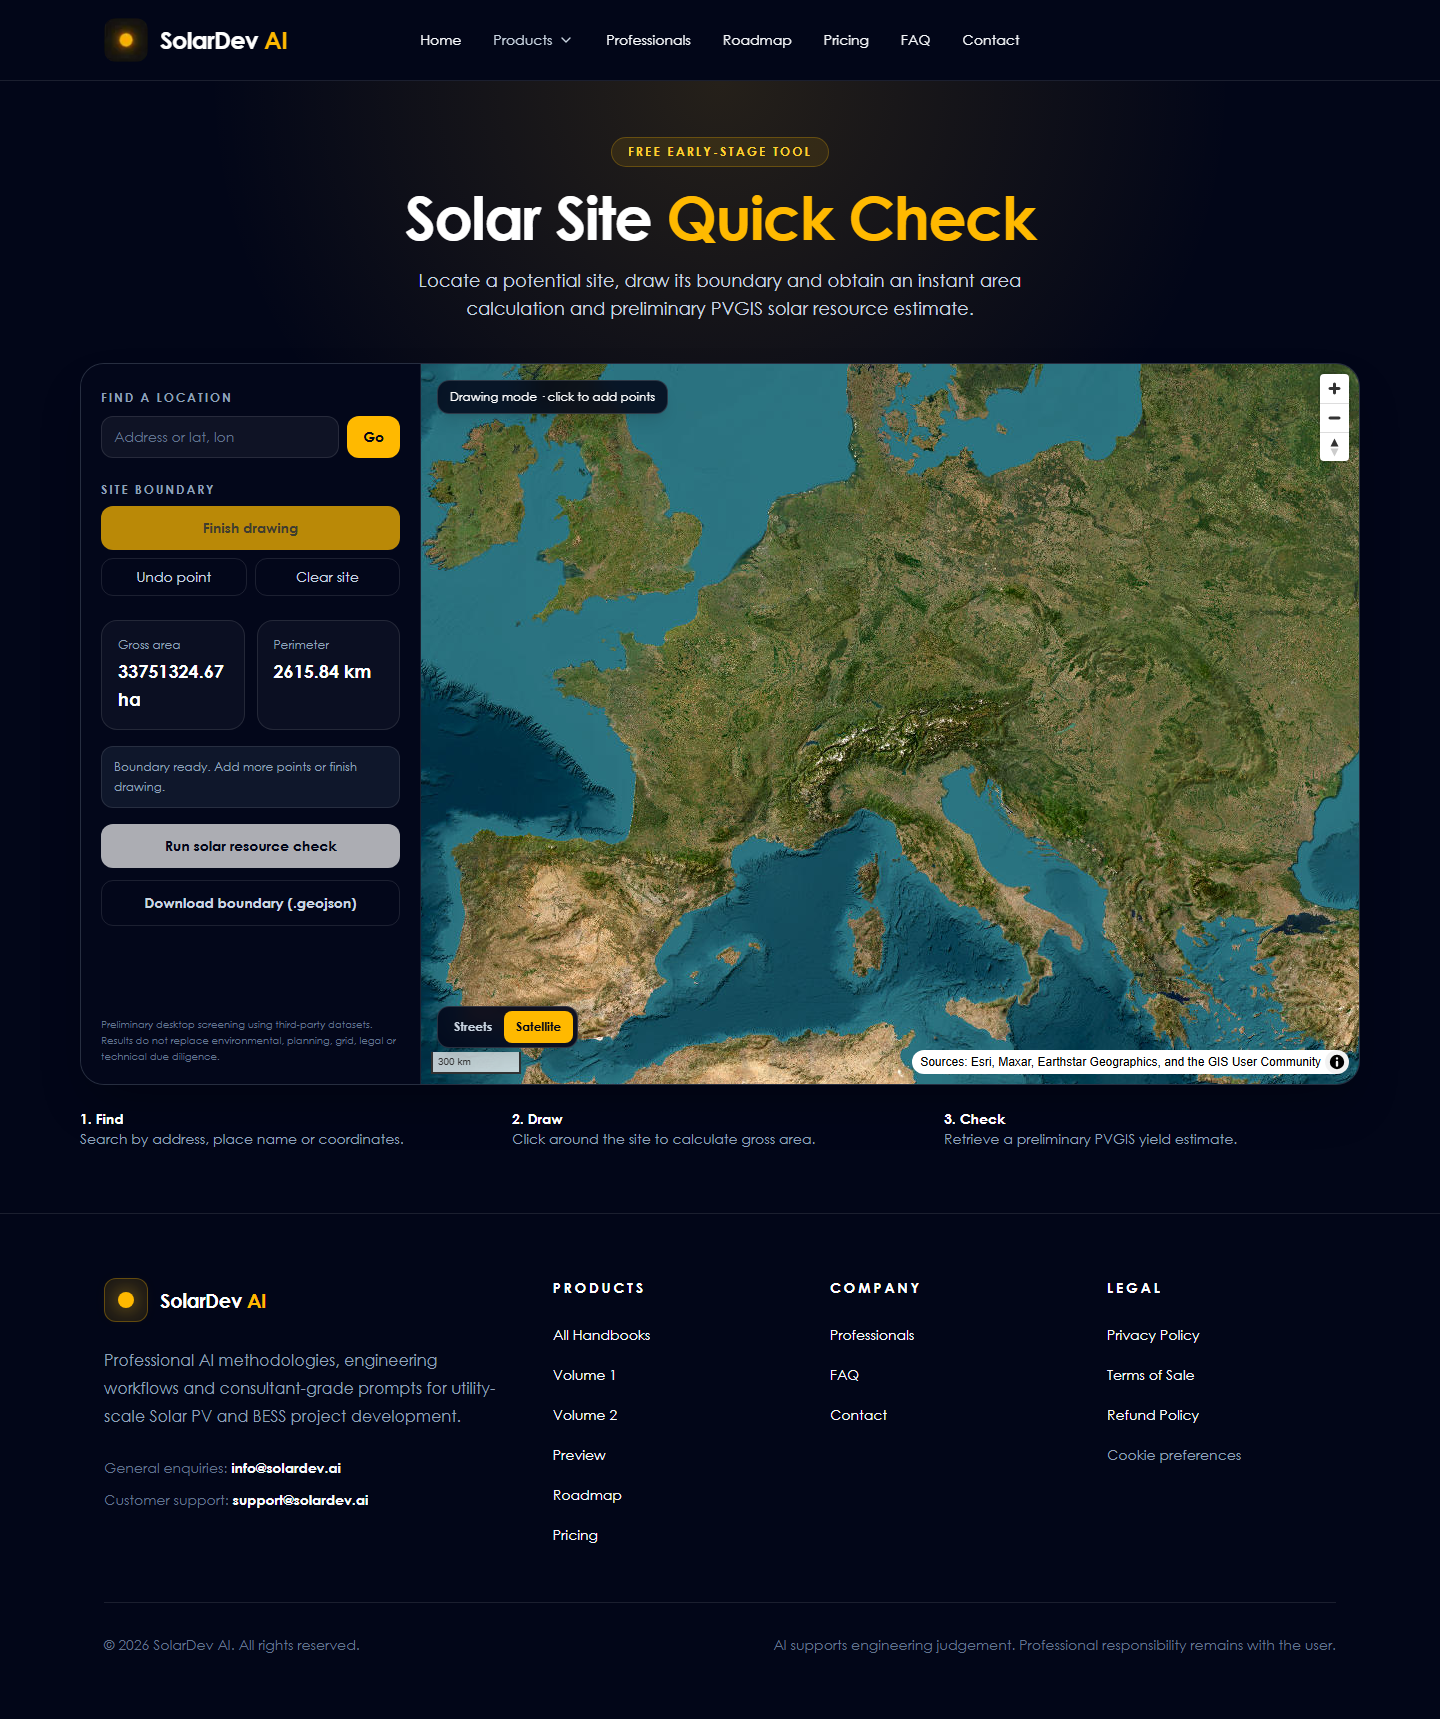
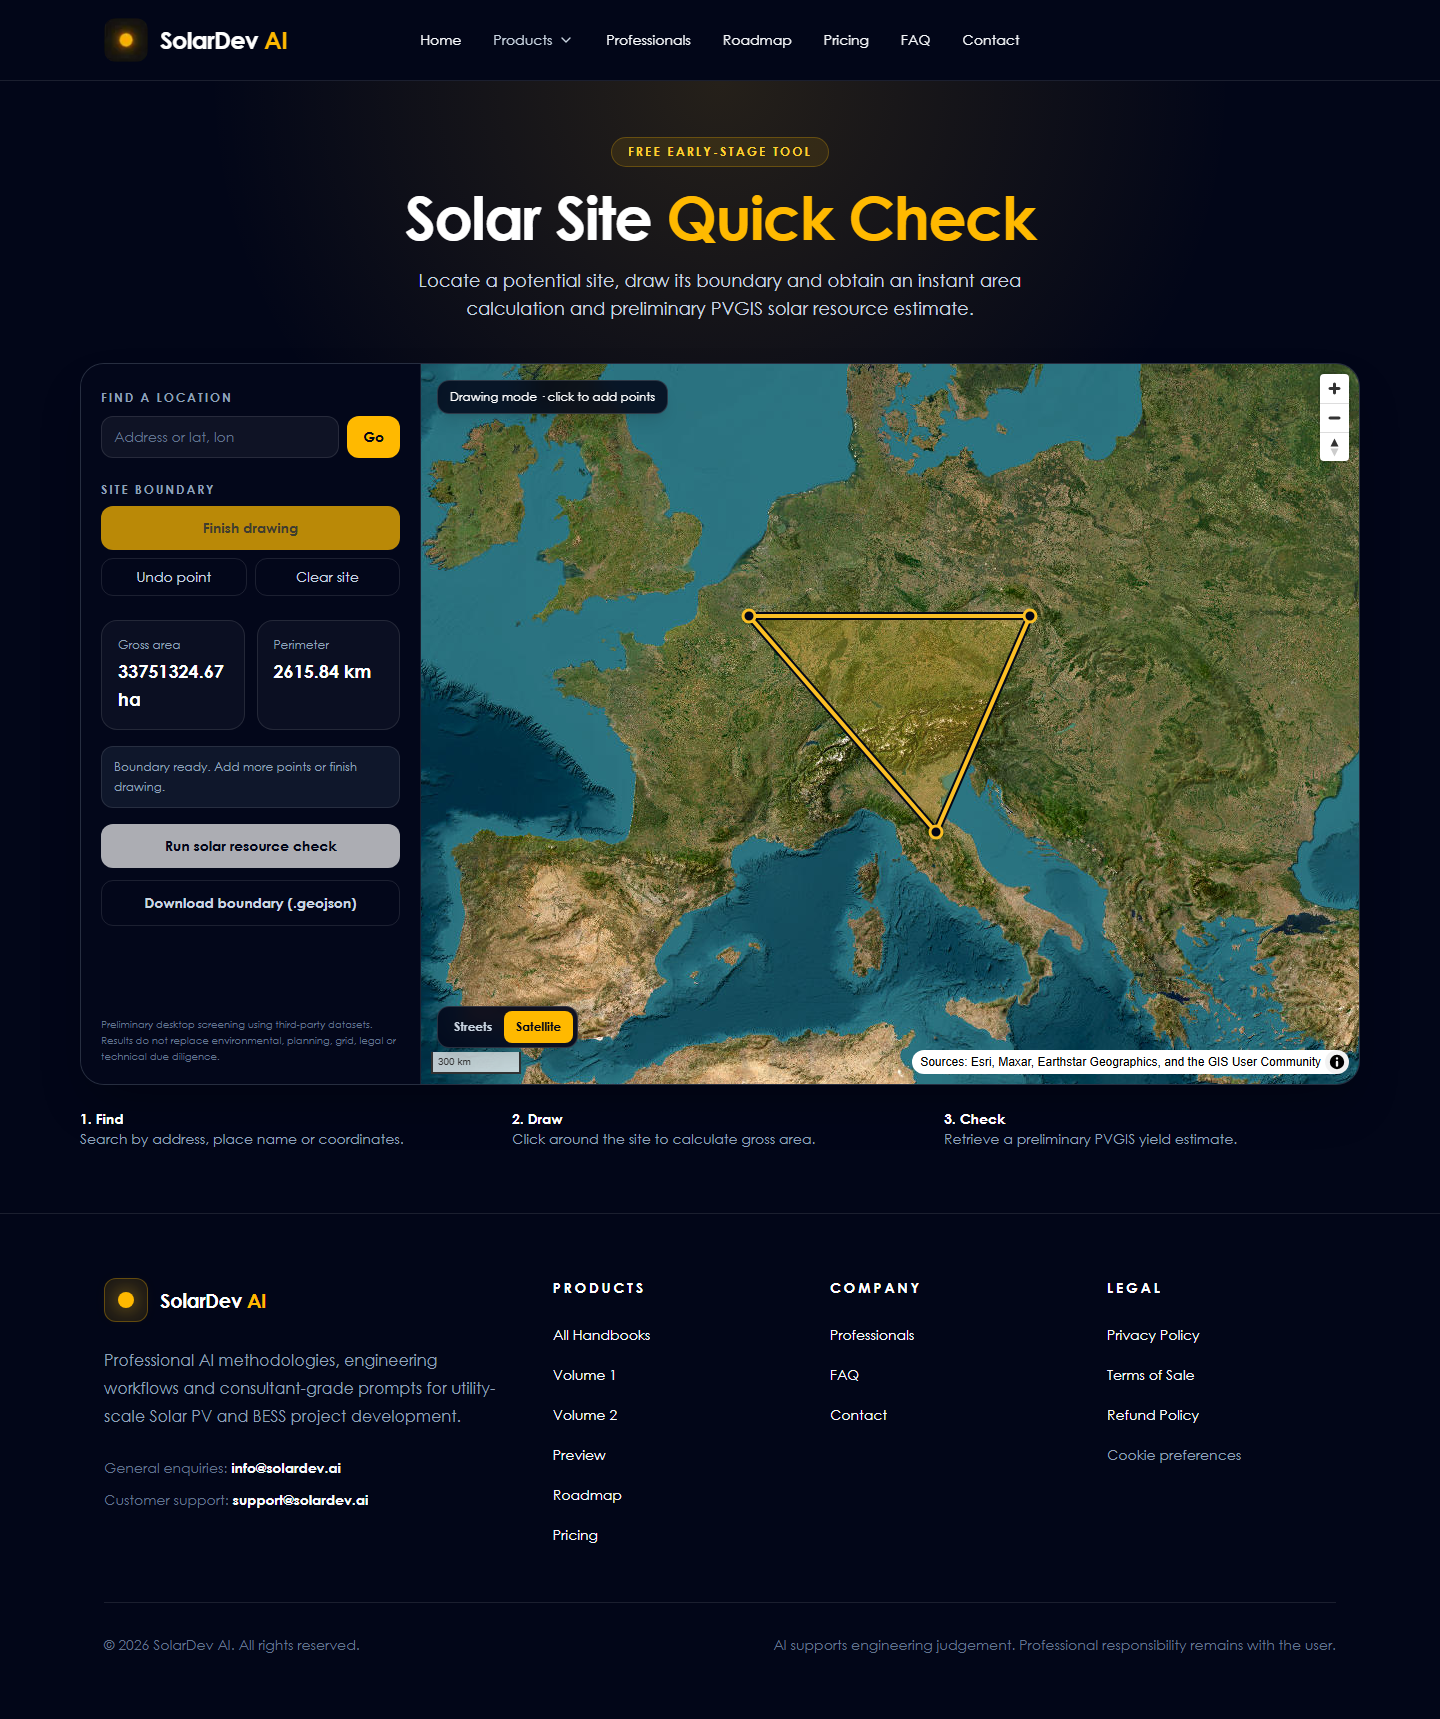
maps edits

Changed region(s): [[0.5, 0.3392, 0.7188, 0.4933]]

diff --git a/components/SolarSiteScreeningMap.tsx b/components/SolarSiteScreeningMap.tsx
@@ -39,6 +39,7 @@ function formatDistance(kilometres: number) {
 
 export default function SolarSiteScreeningMap() {
   const containerRef = useRef<HTMLDivElement>(null);
+  const drawingOverlayRef = useRef<SVGSVGElement>(null);
   const mapRef = useRef<MapLibreMap | null>(null);
   const pointsRef = useRef<Coordinate[]>([]);
   const [points, setPoints] = useState<Coordinate[]>([]);
@@ -54,6 +55,46 @@ export default function SolarSiteScreeningMap() {
   const sitePolygon = closedRing ? polygon([closedRing]) : null;
   const siteArea = sitePolygon ? area(sitePolygon) : 0;
   const sitePerimeter = closedRing ? length(lineString(closedRing)) : 0;
+
+  function updateDrawingOverlay(nextPoints: Coordinate[]) {
+    const map = mapRef.current;
+    const overlay = drawingOverlayRef.current;
+    if (!map || !overlay) return;
+
+    const projectedPoints = nextPoints.map((coordinate) =>
+      map.project(coordinate),
+    );
+    const path = projectedPoints
+      .map((point, index) => `${index === 0 ? "M" : "L"}${point.x},${point.y}`)
+      .join(" ");
+    const closedPath =
+      projectedPoints.length >= 3 ? `${path} Z` : path;
+
+    overlay
+      .querySelectorAll<SVGPathElement>("[data-site-path]")
+      .forEach((element) => element.setAttribute("d", closedPath));
+
+    const vertices = overlay.querySelector<SVGGElement>(
+      "[data-site-vertices]",
+    );
+    if (vertices) {
+      vertices.replaceChildren(
+        ...projectedPoints.map((point) => {
+          const circle = document.createElementNS(
+            "http://www.w3.org/2000/svg",
+            "circle",
+          );
+          circle.setAttribute("cx", String(point.x));
+          circle.setAttribute("cy", String(point.y));
+          circle.setAttribute("r", "6");
+          circle.setAttribute("fill", "#020617");
+          circle.setAttribute("stroke", "#fbbf24");
+          circle.setAttribute("stroke-width", "3");
+          return circle;
+        }),
+      );
+    }
+  }
 
   function updateMap(nextPoints: Coordinate[]) {
     const map = mapRef.current;
@@ -102,6 +143,7 @@ export default function SolarSiteScreeningMap() {
             ]
           : [],
     });
+    updateDrawingOverlay(nextPoints);
   }
 
   useEffect(() => {
@@ -212,6 +254,10 @@ export default function SolarSiteScreeningMap() {
           : "Boundary ready. Add more points or finish drawing.",
       );
     });
+    const refreshDrawingOverlay = () =>
+      updateDrawingOverlay(pointsRef.current);
+    map.on("move", refreshDrawingOverlay);
+    map.on("resize", refreshDrawingOverlay);
 
     mapRef.current = map;
 
@@ -224,9 +270,13 @@ export default function SolarSiteScreeningMap() {
     return () => {
       cancelAnimationFrame(resizeFrame);
       resizeObserver.disconnect();
+      map.off("move", refreshDrawingOverlay);
+      map.off("resize", refreshDrawingOverlay);
       map.remove();
       mapRef.current = null;
     };
+    // MapLibre owns this imperative instance for the component lifetime.
+    // eslint-disable-next-line react-hooks/exhaustive-deps
   }, []);
 
   function toggleDrawing() {
@@ -430,6 +480,27 @@ export default function SolarSiteScreeningMap() {
           className="absolute inset-0 h-full w-full"
           aria-label="Interactive solar site screening map"
         />
+        <svg
+          ref={drawingOverlayRef}
+          aria-hidden="true"
+          className="pointer-events-none absolute inset-0 z-[5] h-full w-full overflow-hidden"
+        >
+          <path
+            data-site-path
+            fill="rgba(251, 191, 36, 0.24)"
+            stroke="#020617"
+            strokeWidth="8"
+            strokeLinejoin="round"
+          />
+          <path
+            data-site-path
+            fill="transparent"
+            stroke="#fbbf24"
+            strokeWidth="4"
+            strokeLinejoin="round"
+          />
+          <g data-site-vertices />
+        </svg>
         <div className="pointer-events-none absolute left-4 top-4 rounded-xl border border-white/15 bg-slate-950/85 px-3 py-2 text-xs text-white shadow-lg backdrop-blur">
           {isDrawing ? "Drawing mode · click to add points" : "Pan and zoom to explore"}
         </div>
